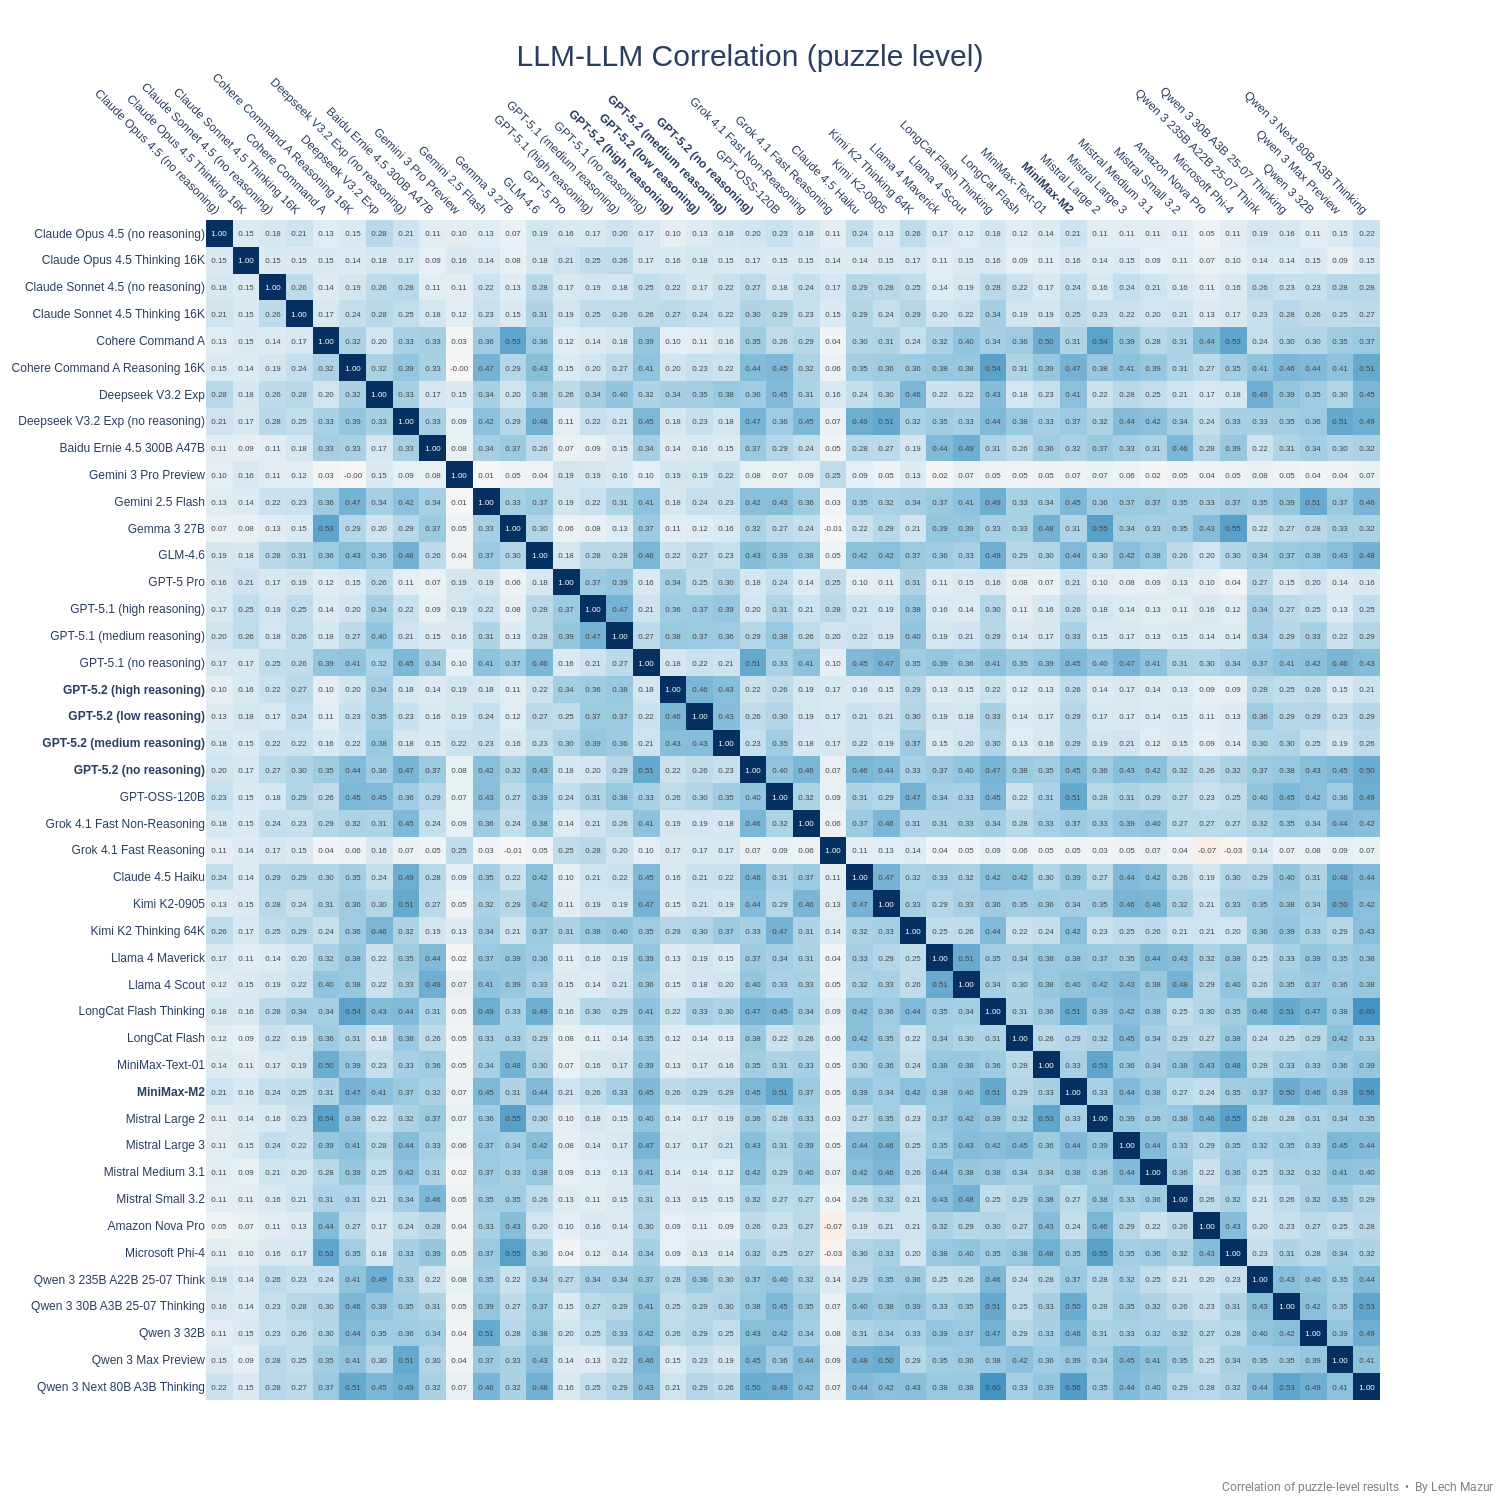
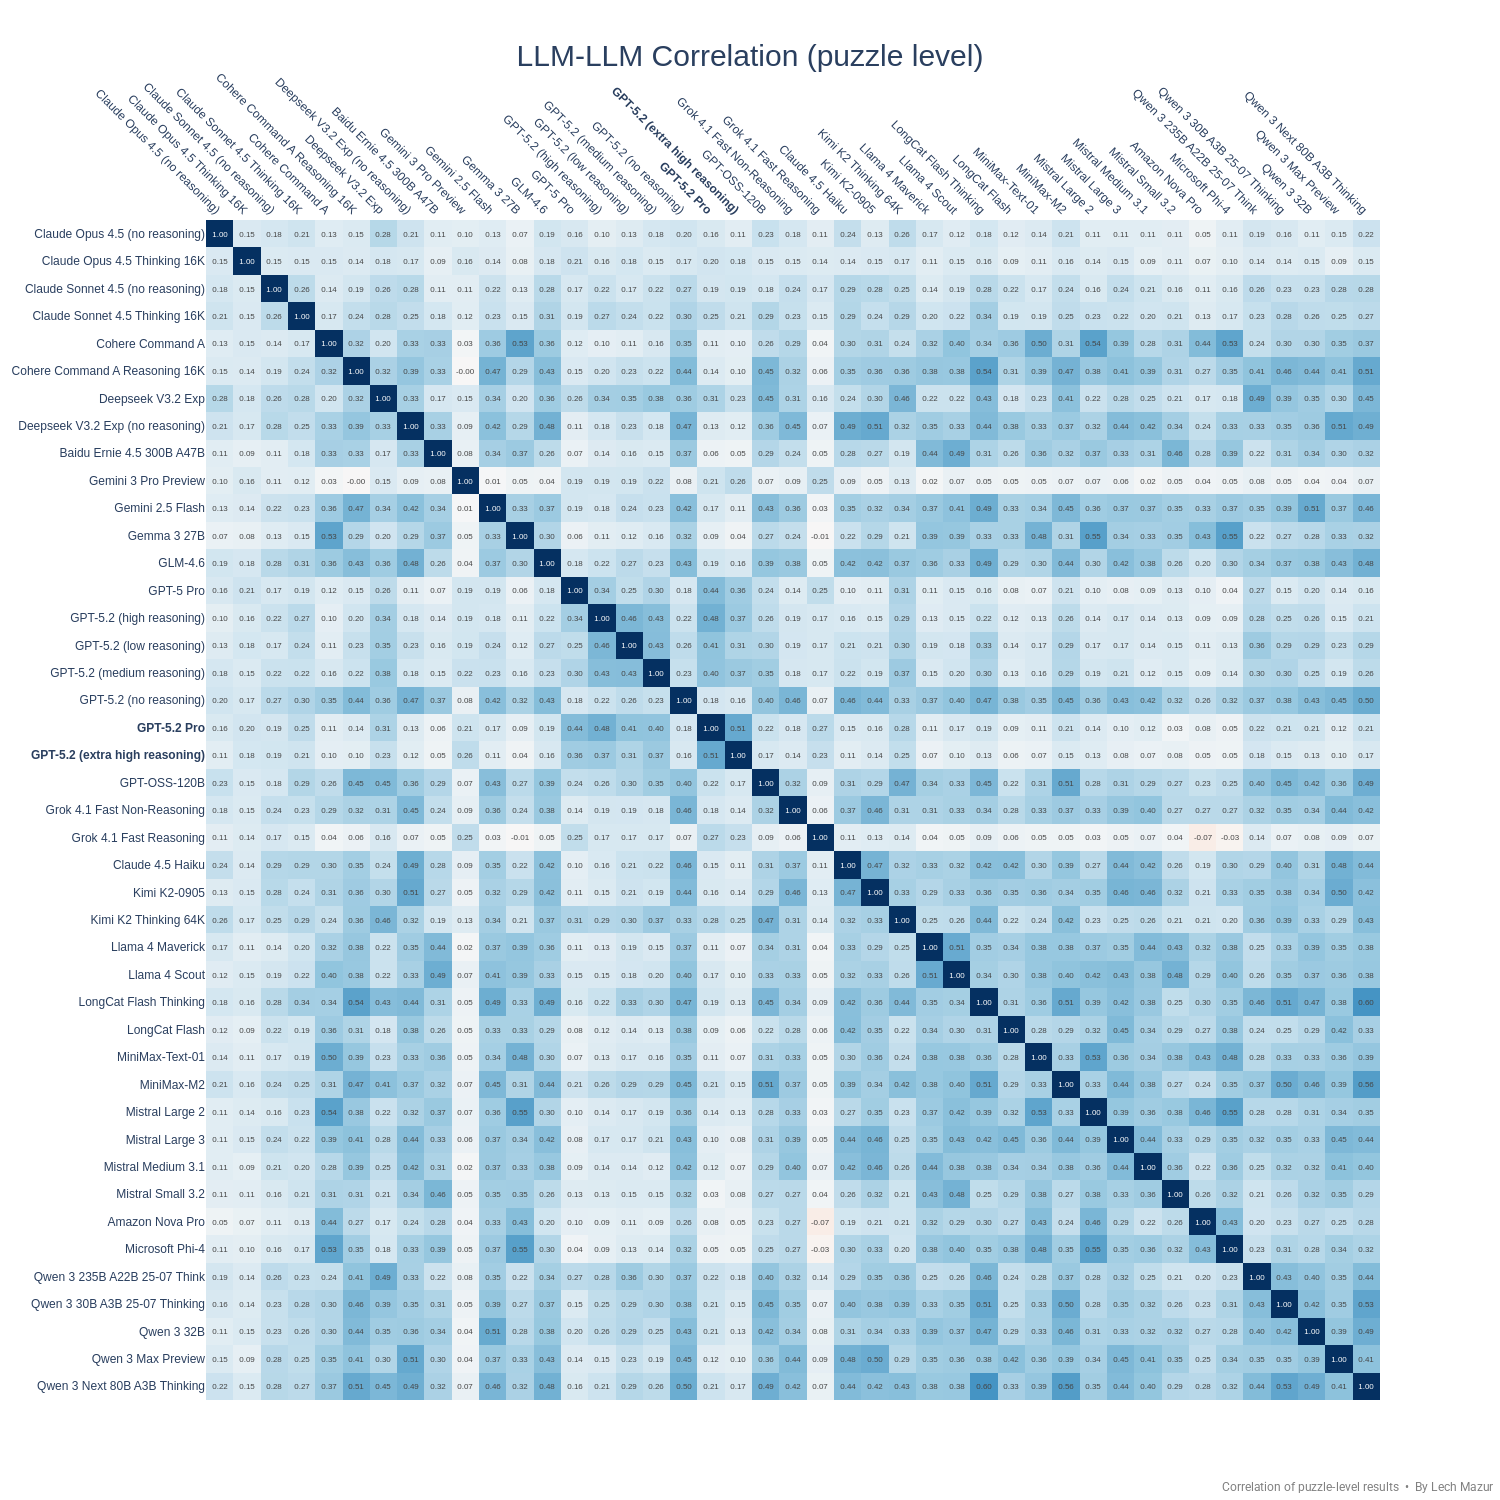
gpt-5.2 pro

Changed region(s): [[0.0307, 0.0613, 0.92, 0.9507], [0.0613, 0.92, 0.092, 0.9507]]

diff --git a/README.md b/README.md
@@ -18,123 +18,126 @@ As of Feb 4, 2025, there is a new version of the benchmark. The standard NYT Con
 |4|Grok 4 Fast Reasoning|92.1|759|
 |5|Grok 4|91.7|759|
 |6|Sonoma Sky Alpha|90.7|759|
-|7|o3-pro (medium reasoning)|87.3|759|
-|8|GPT-5 Pro|83.9|759|
-|9|o1-pro (medium reasoning)|82.5|651|
-|10|o3 (high reasoning)|78.6|759|
-|11|GPT-5.2 (high reasoning)|77.9|759|
-|12|GPT-5 (high reasoning)|77.0|759|
-|13|o4-mini (high reasoning)|73.6|759|
-|14|o3 (medium reasoning)|73.0|759|
-|15|GPT-5 (medium reasoning)|72.2|759|
-|16|GPT-5.2 (medium reasoning)|72.1|759|
-|17|o1 (medium reasoning)|70.8|651|
-|18|GPT-5.1 (high reasoning)|69.9|759|
-|19|o4-mini (medium reasoning)|68.8|651|
-|20|GPT-5.2 (low reasoning)|67.9|759|
-|21|GPT-5 mini (medium reasoning)|66.9|759|
-|22|GPT-5 (low reasoning)|65.4|759|
-|23|Claude Opus 4.5 Thinking 16K|63.8|759|
-|24|GPT-5.1 (medium reasoning)|62.7|759|
-|25|o3-mini (high reasoning)|61.4|651|
-|26|Claude Opus 4.5 (no reasoning)|61.3|759|
-|27|Deepseek V3.2 Exp|59.4|759|
-|28|Claude Opus 4.1 Thinking 16K|58.8|759|
-|29|DeepSeek V3.1 Reasoner|57.7|759|
-|30|Gemini 2.5 Pro|57.6|759|
-|31|Kimi K2 Thinking 64K|56.7|759|
-|32|Qwen 3 235B A22B|54.3|759|
-|33|Gemini 2.5 Pro Exp 03-25|54.1|651|
-|34|o3-mini (medium reasoning)|53.6|651|
-|35|Claude Opus 4 Thinking 16K|49.7|759|
-|36|DeepSeek R1 05/28|48.6|759|
-|37|Claude Sonnet 4.5 Thinking 16K|48.2|759|
-|38|Qwen 3 235B A22B 25-07 Think|46.2|759|
-|39|Claude Sonnet 4.5 (no reasoning)|46.1|759|
-|40|Gemini 2.5 Pro Preview 05-06|42.5|651|
-|41|Claude Sonnet 4 Thinking 16K|40.3|759|
-|42|Claude Sonnet 4 Thinking 64K|39.6|651|
-|43|GPT-OSS-120B|38.7|759|
-|44|DeepSeek R1|38.6|651|
-|45|Claude Opus 4.1 (no reasoning)|37.1|759|
-|46|Qwen 3 30B A3B|36.6|759|
-|47|Qwen 3 32B|35.8|759|
-|48|Qwen 3 30B A3B 25-07 Thinking|35.5|759|
-|49|Claude Opus 4 (no reasoning)|34.4|759|
-|50|GPT-4.5 Preview|34.2|651|
-|51|Claude 3.7 Sonnet Thinking 16K|33.6|651|
-|52|Qwen 3 Next 80B A3B Thinking|32.9|759|
-|53|LongCat Flash Thinking|31.7|499|
-|54|Qwen QwQ-32B 16K|31.4|651|
-|55|Grok 3 Mini Beta (high)|30.2|759|
-|56|GLM-4.5|30.2|759|
-|57|MiniMax-M2|27.6|750|
-|58|GPT-5.2 (no reasoning)|27.5|759|
-|59|GPT-5 (minimal reasoning)|27.3|759|
-|60|o1-mini|26.9|651|
-|61|Claude Sonnet 4 (no reasoning)|26.6|759|
-|62|Grok 3 Mini Beta (low)|26.0|651|
-|63|Grok 4.1 Fast Non-Reasoning|25.8|759|
-|64|Quasar Alpha|25.4|651|
-|65|Cohere Command A Reasoning 16K|25.3|759|
-|66|Gemini 2.5 Flash|25.2|759|
-|67|Sherlock Dash Alpha|25.1|759|
-|68|Grok 4 Fast Non-Reasoning|24.9|759|
-|69|GPT-4o Mar 2025|24.5|759|
-|70|GLM-4.6|24.2|759|
-|71|Qwen 3 Max Preview|23.9|759|
-|72|Kimi K2-0905|23.6|759|
-|73|Gemini 2.0 Flash Think Exp 01-21|23.1|649|
-|74|GPT-4.1|22.8|759|
-|75|Sonoma Dusk Alpha|22.8|759|
-|76|GPT-4o Feb 2025|22.7|651|
-|77|GPT-5.1 (no reasoning)|22.1|759|
-|78|Polaris Alpha|21.8|759|
-|79|Gemini 2.0 Pro Exp 02-05|21.7|651|
-|80|DeepSeek V3.1 Non-Think|21.6|759|
-|81|MiniMax-M1|21.3|688|
-|82|Deepseek V3.2 Exp (no reasoning)|20.7|759|
-|83|Claude 4.5 Haiku|20.0|759|
-|84|Kimi K2|19.8|759|
-|85|Qwen 3 235B A22B 25-07 Instruct|19.8|759|
-|86|Grok 3 Beta (no reasoning)|19.7|759|
-|87|Grok 2 12-12|19.2|651|
-|88|Gemini 1.5 Pro (Sept)|19.2|601|
-|89|Claude 3 Opus|19.2|650|
-|90|Claude 3.7 Sonnet|19.2|651|
-|91|Gemini 2.0 Flash|18.8|651|
-|92|GPT-4o 2024-11-20|18.7|601|
-|93|Llama 4 Maverick|18.5|759|
-|94|Qwen 2.5 Max|18.0|651|
-|95|GPT-4o 2024-08-06|17.8|601|
-|96|Claude 3.5 Sonnet 2024-10-22|17.7|651|
-|97|Llama 4 Scout|17.4|759|
-|98|DeepSeek V3-0324|16.8|759|
-|99|Mistral Large 3|16.8|759|
-|100|Llama 3.1 405B|16.2|651|
-|101|Mistral Medium 3.1|15.2|759|
-|102|DeepSeek V3|15.1|651|
-|103|Llama 3.3 70B|15.1|651|
-|104|Baidu Ernie 4.5 300B A47B|14.8|759|
-|105|GPT-4.1 mini|14.4|759|
-|106|MiniMax-Text-01|13.8|759|
-|107|Cohere Command A|13.1|759|
-|108|Mistral Large 2|12.4|759|
-|109|Gemma 2 27B|12.2|651|
-|110|LongCat Flash|12.1|759|
-|111|Gemma 3 27B|11.6|759|
-|112|Mistral Medium 3|11.5|759|
-|113|Mistral Small 3.1|11.4|651|
-|114|Mistral Small 3.2|11.2|759|
-|115|Qwen 2.5 72B|10.5|759|
-|116|Claude 3.5 Haiku|10.0|759|
-|117|Amazon Nova Pro|9.9|759|
-|118|Microsoft Phi-4|9.9|759|
-|119|GPT-4o mini|9.7|759|
-|120|Mistral Small 3|8.9|601|
-|121|GPT-4.1 nano|8.1|759|
-|122|GLM4-32B-0414|7.6|759|
-|123|Claude 3 Haiku|2.2|601|
+|7|GPT-5.2 (extra high reasoning)|89.3|759|
+|8|o3-pro (medium reasoning)|87.3|759|
+|9|GPT-5.2 Pro|86.7|759|
+|10|GPT-5 Pro|83.9|759|
+|11|o1-pro (medium reasoning)|82.5|651|
+|12|o3 (high reasoning)|78.6|759|
+|13|GPT-5.2 (high reasoning)|77.9|759|
+|14|GPT-5 (high reasoning)|77.0|759|
+|15|o4-mini (high reasoning)|73.6|759|
+|16|o3 (medium reasoning)|73.0|759|
+|17|GPT-5 (medium reasoning)|72.2|759|
+|18|GPT-5.2 (medium reasoning)|72.1|759|
+|19|o1 (medium reasoning)|70.8|651|
+|20|GPT-5.1 (high reasoning)|69.9|759|
+|21|o4-mini (medium reasoning)|68.8|651|
+|22|GPT-5.2 (low reasoning)|67.9|759|
+|23|GPT-5 mini (medium reasoning)|66.9|759|
+|24|GPT-5 (low reasoning)|65.4|759|
+|25|Claude Opus 4.5 Thinking 16K|63.8|759|
+|26|GPT-5.1 (medium reasoning)|62.7|759|
+|27|o3-mini (high reasoning)|61.4|651|
+|28|Claude Opus 4.5 (no reasoning)|61.3|759|
+|29|Deepseek V3.2 Exp|59.4|759|
+|30|Claude Opus 4.1 Thinking 16K|58.8|759|
+|31|DeepSeek V3.1 Reasoner|57.7|759|
+|32|Gemini 2.5 Pro|57.6|759|
+|33|Kimi K2 Thinking 64K|56.7|759|
+|34|Qwen 3 235B A22B|54.3|759|
+|35|Gemini 2.5 Pro Exp 03-25|54.1|651|
+|36|o3-mini (medium reasoning)|53.6|651|
+|37|Claude Opus 4 Thinking 16K|49.7|759|
+|38|DeepSeek R1 05/28|48.6|759|
+|39|Claude Sonnet 4.5 Thinking 16K|48.2|759|
+|40|Qwen 3 235B A22B 25-07 Think|46.2|759|
+|41|Claude Sonnet 4.5 (no reasoning)|46.1|759|
+|42|Gemini 2.5 Pro Preview 05-06|42.5|651|
+|43|Claude Sonnet 4 Thinking 16K|40.3|759|
+|44|Claude Sonnet 4 Thinking 64K|39.6|651|
+|45|GPT-OSS-120B|38.7|759|
+|46|DeepSeek R1|38.6|651|
+|47|Claude Opus 4.1 (no reasoning)|37.1|759|
+|48|Qwen 3 30B A3B|36.6|759|
+|49|Qwen 3 32B|35.8|759|
+|50|Qwen 3 30B A3B 25-07 Thinking|35.5|759|
+|51|Claude Opus 4 (no reasoning)|34.4|759|
+|52|GPT-4.5 Preview|34.2|651|
+|53|Claude 3.7 Sonnet Thinking 16K|33.6|651|
+|54|Qwen 3 Next 80B A3B Thinking|32.9|759|
+|55|LongCat Flash Thinking|31.7|499|
+|56|Qwen QwQ-32B 16K|31.4|651|
+|57|Grok 3 Mini Beta (high)|30.2|759|
+|58|GLM-4.5|30.2|759|
+|59|MiniMax-M2|27.6|750|
+|60|GPT-5.2 (no reasoning)|27.5|759|
+|61|GPT-5 (minimal reasoning)|27.3|759|
+|62|o1-mini|26.9|651|
+|63|Claude Sonnet 4 (no reasoning)|26.6|759|
+|64|Grok 3 Mini Beta (low)|26.0|651|
+|65|Grok 4.1 Fast Non-Reasoning|25.8|759|
+|66|Quasar Alpha|25.4|651|
+|67|Cohere Command A Reasoning 16K|25.3|759|
+|68|Gemini 2.5 Flash|25.2|759|
+|69|Sherlock Dash Alpha|25.1|759|
+|70|Grok 4 Fast Non-Reasoning|24.9|759|
+|71|GPT-4o Mar 2025|24.5|759|
+|72|GLM-4.6|24.2|759|
+|73|Qwen 3 Max Preview|23.9|759|
+|74|Kimi K2-0905|23.6|759|
+|75|Gemini 2.0 Flash Think Exp 01-21|23.1|649|
+|76|GPT-4.1|22.8|759|
+|77|Sonoma Dusk Alpha|22.8|759|
+|78|GPT-4o Feb 2025|22.7|651|
+|79|GPT-5.1 (no reasoning)|22.1|759|
+|80|Polaris Alpha|21.8|759|
+|81|Gemini 2.0 Pro Exp 02-05|21.7|651|
+|82|DeepSeek V3.1 Non-Think|21.6|759|
+|83|MiniMax-M1|21.3|688|
+|84|Deepseek V3.2 Exp (no reasoning)|20.7|759|
+|85|Claude 4.5 Haiku|20.0|759|
+|86|Kimi K2|19.8|759|
+|87|Qwen 3 235B A22B 25-07 Instruct|19.8|759|
+|88|Grok 3 Beta (no reasoning)|19.7|759|
+|89|Grok 2 12-12|19.2|651|
+|90|Gemini 1.5 Pro (Sept)|19.2|601|
+|91|Claude 3 Opus|19.2|650|
+|92|Claude 3.7 Sonnet|19.2|651|
+|93|Gemini 2.0 Flash|18.8|651|
+|94|GPT-4o 2024-11-20|18.7|601|
+|95|Llama 4 Maverick|18.5|759|
+|96|Qwen 2.5 Max|18.0|651|
+|97|GPT-4o 2024-08-06|17.8|601|
+|98|Claude 3.5 Sonnet 2024-10-22|17.7|651|
+|99|Llama 4 Scout|17.4|759|
+|100|DeepSeek V3-0324|16.8|759|
+|101|Mistral Large 3|16.8|759|
+|102|Llama 3.1 405B|16.2|651|
+|103|Mistral Medium 3.1|15.2|759|
+|104|DeepSeek V3|15.1|651|
+|105|Llama 3.3 70B|15.1|651|
+|106|Baidu Ernie 4.5 300B A47B|14.8|759|
+|107|GPT-4.1 mini|14.4|759|
+|108|MiniMax-Text-01|13.8|759|
+|109|Cohere Command A|13.1|759|
+|110|Mistral Large 2|12.4|759|
+|111|Gemma 2 27B|12.2|651|
+|112|LongCat Flash|12.1|759|
+|113|Gemma 3 27B|11.6|759|
+|114|Mistral Medium 3|11.5|759|
+|115|Mistral Small 3.1|11.4|651|
+|116|Mistral Small 3.2|11.2|759|
+|117|Qwen 2.5 72B|10.5|759|
+|118|Claude 3.5 Haiku|10.0|759|
+|119|Amazon Nova Pro|9.9|759|
+|120|Microsoft Phi-4|9.9|759|
+|121|GPT-4o mini|9.7|759|
+|122|Mistral Small 3|8.9|601|
+|123|GPT-4.1 nano|8.1|759|
+|124|GLM4-32B-0414|7.6|759|
+|125|Claude 3 Haiku|2.2|601|
+
 
 
 
@@ -246,6 +249,7 @@ This benchmark evaluates large language models (LLMs) using 436 NYT Connections 
 ---
 
 ## Updates
+- Dec 12, 2025: GPT 5.2 xhigh, GPT 5.2 Pro added.
 - Dec 11, 2025: GPT 5.2 added.
 - Dec 2, 2025: Mistral Large 3 added.
 - Nov 24, 2025: Claude Opus 4.5 added.
